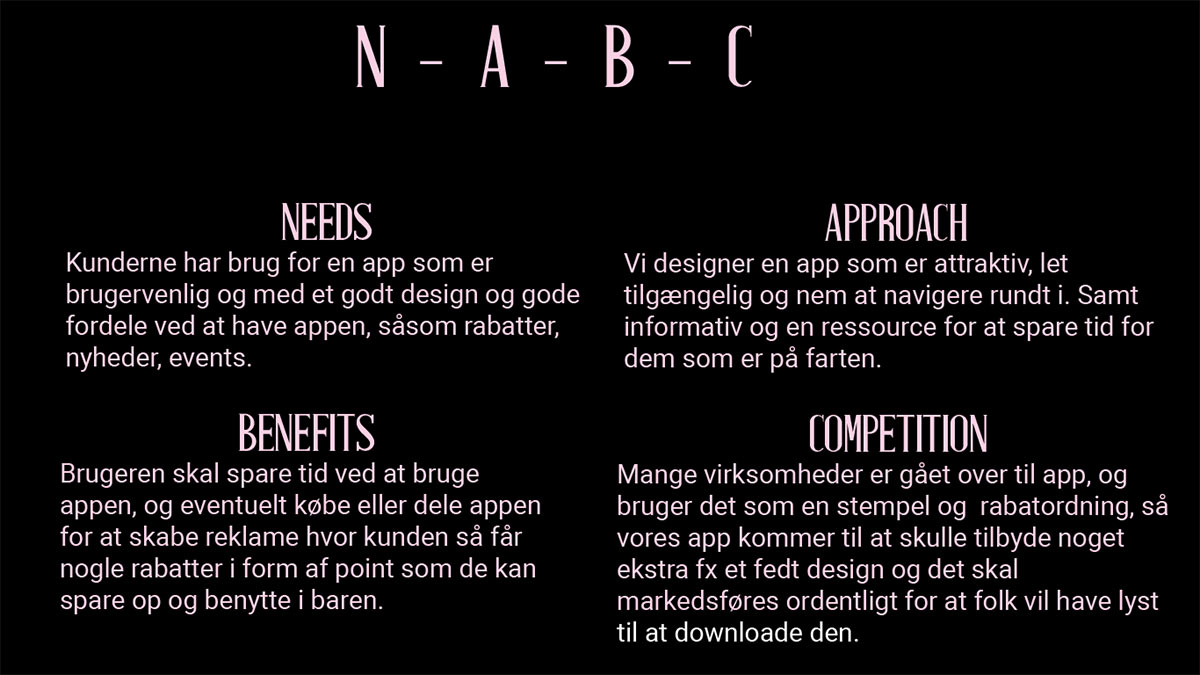
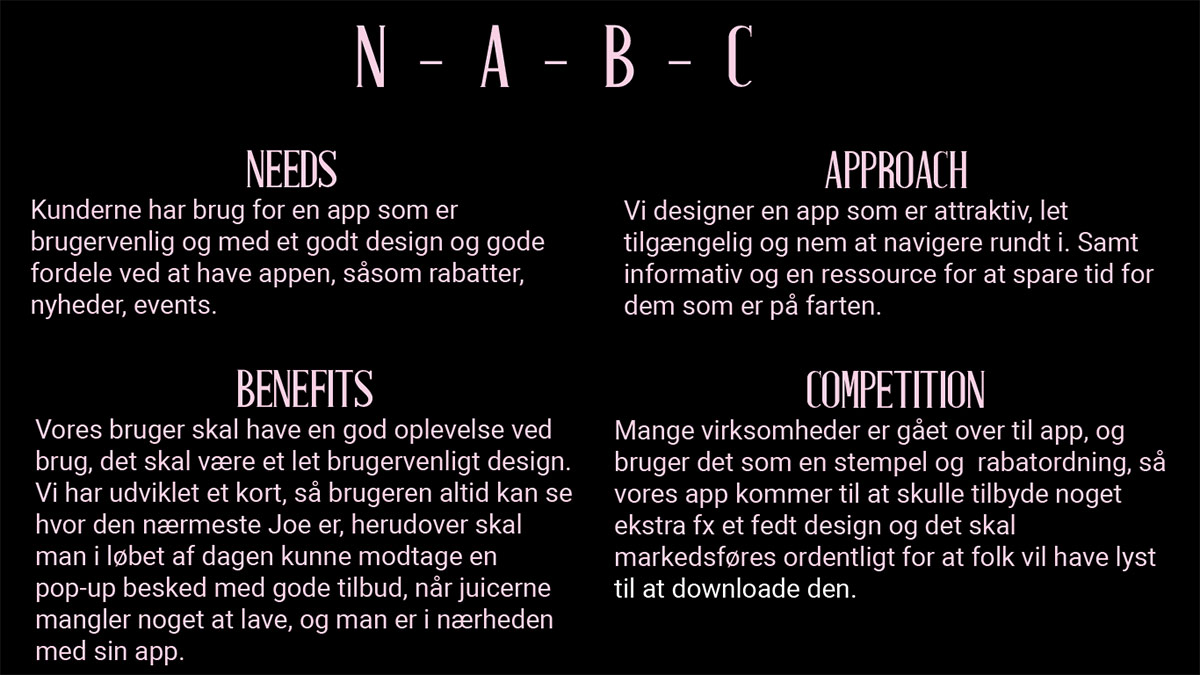
final

Changed region(s): [[0.0308, 0.2178, 0.9867, 0.9956]]

diff --git a/proces.html b/proces.html
@@ -60,6 +60,8 @@
             <h1>Brugerresearch</h1>
             <p>Vi har bl.a. lavet et spørgeskema omkring Joe & the juice, BERT-test og en brief fra Joe & the juice. Svarene kan læsest <a href="images/svar.pdf" target="_blank">her.</a></p>
 
+            <p>Vi har også lavet nogle brugerinterviews som kan læsest <a href="images/brugerinterviews.pdf" target="_blank">her.</a></p>
+
             <h2>Data-mining</h2>
             <h3>Spørgeskema:</h3>
             <li>Flertallet som har besvaret vores spørgsmål, er mænd mellem 20-30 år</li>
@@ -126,6 +128,7 @@
         <!-- Features og funktionaliteter -->
         <section id="features">
             <h1>Features og funktionaliteter</h1>
+            <img src="images/feature.jpg" alt="Storyboard" class="image">
         </section>
         <!-- Features og funktionaliteter slut -->
 
@@ -168,6 +171,27 @@
         <!-- Test af prototype -->
         <section id="test">
             <h1>Test af prototype</h1>
+            <h2>FØRSTEHÅNDSINDTRYK:</h2>
+            <li>68.2% Er meget positive</li>
+            <li>27.3% Er tæt på meget positive</li>
+            <h2>BRUGERVENLIGHED:</h2>
+            <li>59.1% Mener den er meget nem</li>
+            <li>36.3% Synes den er nem at bruge</li>
+
+            <h2>Design:</h2>
+            <li>31.8% Synes rigtig godt om</li>
+            <li>50% Synes bare godt om</li>
+
+            <h2>INFORMERENDE:</h2>
+            <li>22.7% Den er fyldestgørende</li>
+            <li>40.9% Det kan blive lidt bedre</li>
+            <h2>INDVENDINGER/KOMMENTARER:</h2>
+            <li>Flot og overskueligt design</li>
+            <li>Meget brugervenligt</li>
+            <li>Æstetisk design</li>
+            <li>Skiller sig ikke så meget ud fra det eksisterende</li>
+
+
         </section>
         <!-- Test af prototype slut -->
 

diff --git a/index.html b/index.html
@@ -66,8 +66,12 @@
   Your browser does not support HTML5 video.
 </video>
 
+            <h2>Benefits for den enkelte bruger</h2>
+            <p>Vores bruger skal have en god oplevelse ved brug, det skal være et let brugervenligt design. Vi har udviklet et kort, så brugeren altid kan se hvor den nærmeste Joe er, herudover skal man i løbet af dagen kunne modtage en pop-up besked med gode tilbud, når juicerne mangler noget at lave, og man er i nærheden med sin app.</p>
+
+            <h2>Prototypen</h2>
             <iframe width="375" height="667" src="https://xd.adobe.com/embed/1af978e5-df41-461e-532d-732bae9c612b-6cc8/?fullscreen" frameborder="0" allowfullscreen></iframe>
-            <p><a href="https://xd.adobe.com/view/9afd5bea-06a4-45ef-5839-83cd7ec87f92-eccc/?fullscreen" target="_blank">Se i fuldskærm</a></p>
+            <p><a href="https://xd.adobe.com/embed/1af978e5-df41-461e-532d-732bae9c612b-6cc8/?fullscreen" target="_blank">Se i fuldskærm</a></p>
         </section>
         <!-- Forside slut -->
 
@@ -85,7 +89,6 @@
     <script src="https://code.jquery.com/jquery-3.3.1.min.js " integrity="sha256-FgpCb/KJQlLNfOu91ta32o/NMZxltwRo8QtmkMRdAu8=" crossorigin=" anonymous "></script>
     <script>
         window.jQuery || document.write('<script src="js/vendor/jquery-3.3.1.min.js "><\/script>')
-
     </script>
     <script src="js/plugins.js "></script>
     <script src="js/main.js "></script>

diff --git a/styring_og_planlaegning.html b/styring_og_planlaegning.html
@@ -74,9 +74,17 @@
         </section>
 
         <section id="28">
-            <h1>Fredag d. 25.</h1>
+            <h1>Mandag d. 28.</h1>
             <video width="100%" controls>
   <source src="images/video/28.mp4" type="video/mp4">
+  Your browser does not support HTML5 video.
+</video>
+        </section>
+
+        <section id="29">
+            <h1>Tirsdag d. 29.</h1>
+            <video width="100%" controls>
+  <source src="images/video/29.mp4" type="video/mp4">
   Your browser does not support HTML5 video.
 </video>
         </section>
